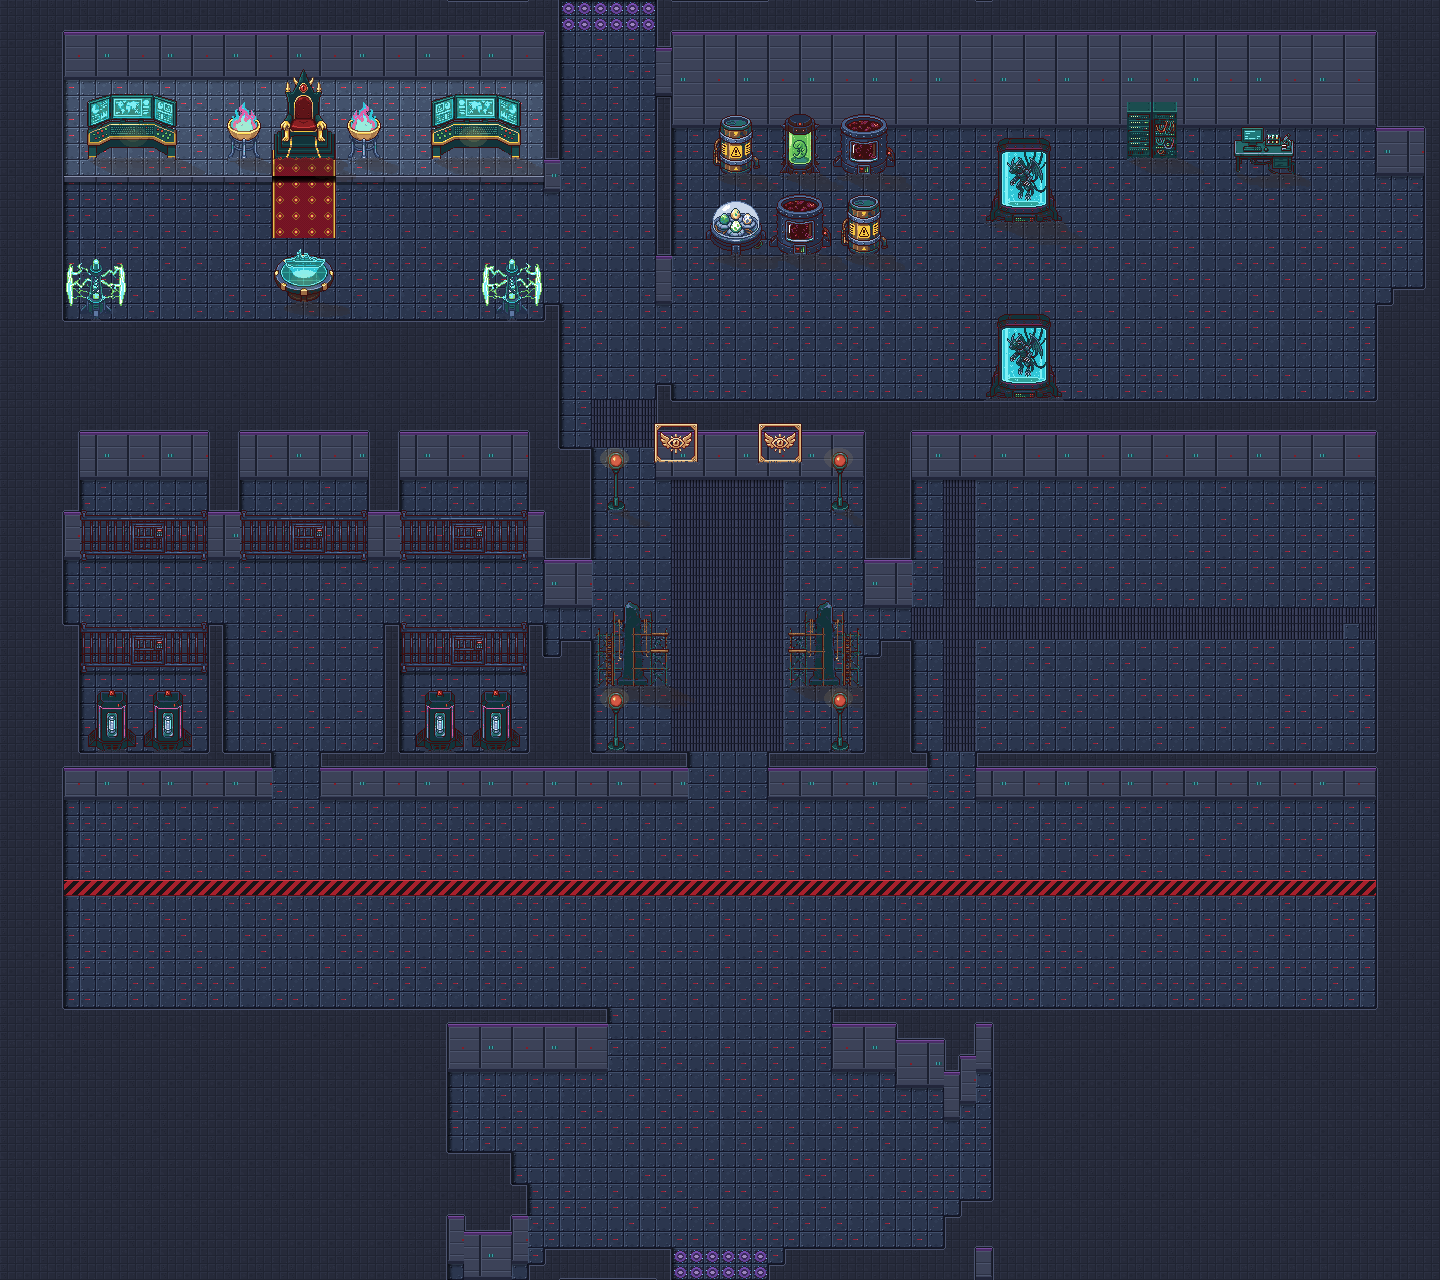
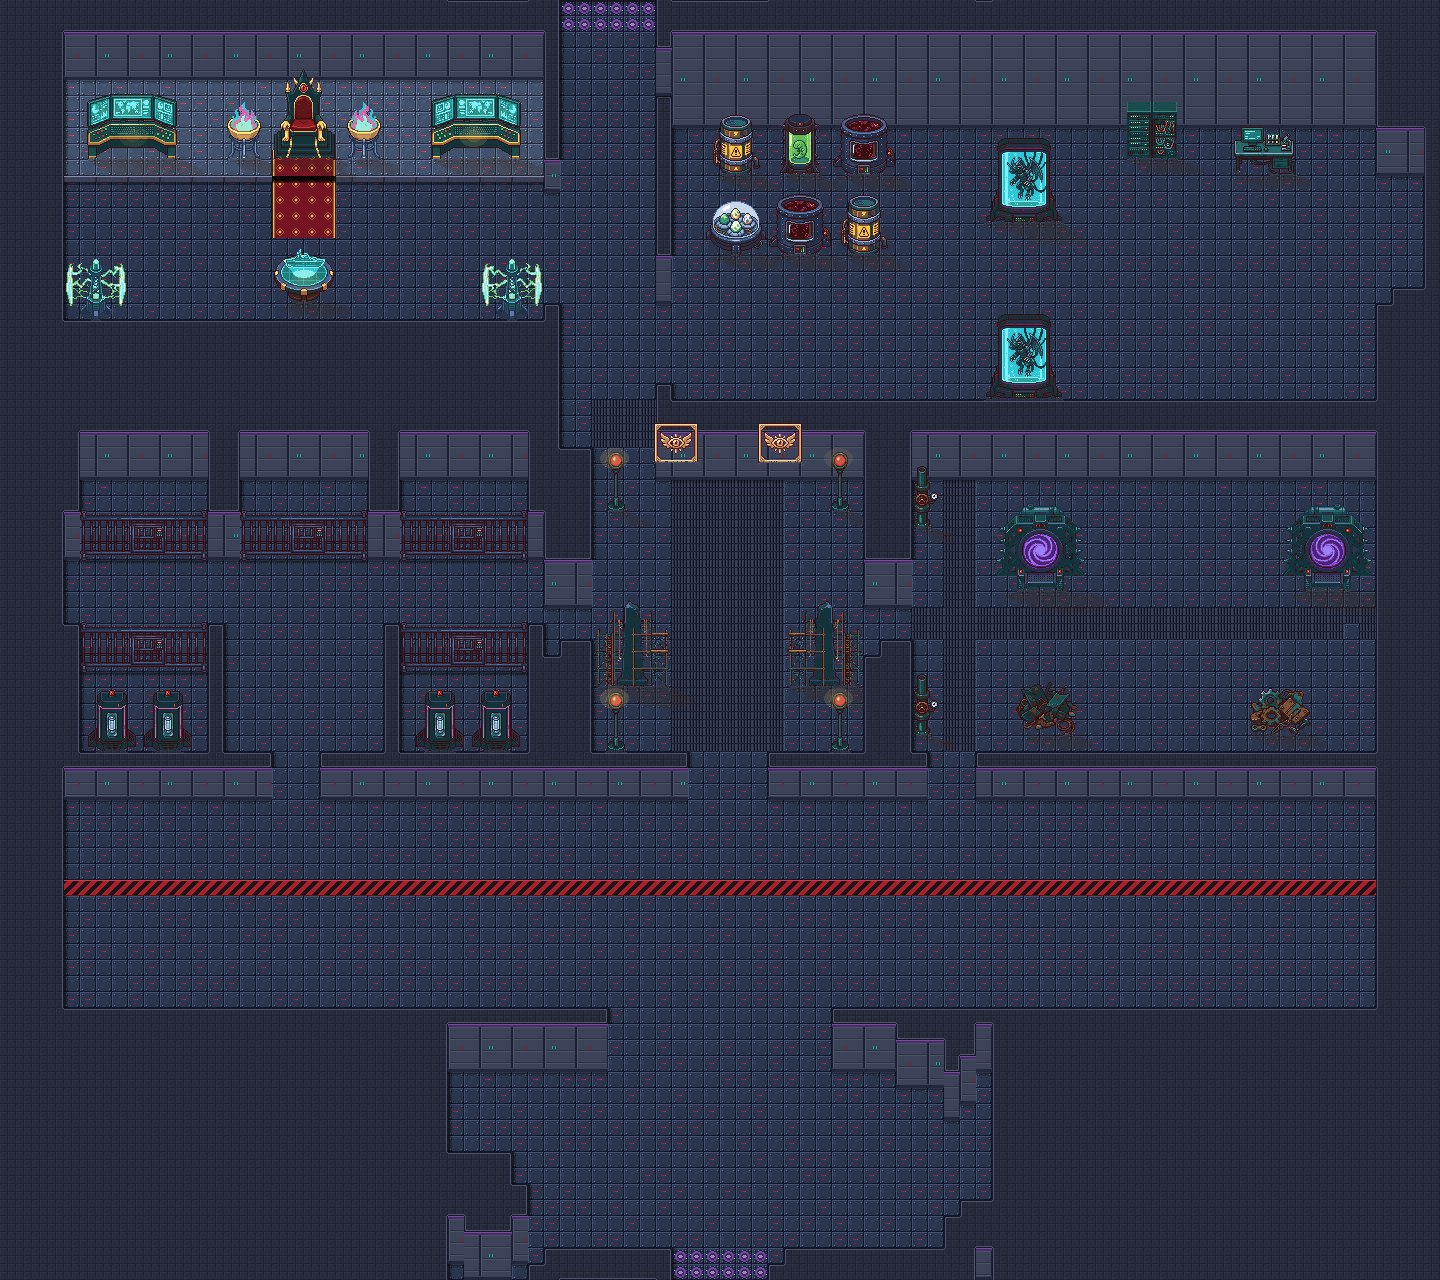
Karte 26: Portalraum - zwei Portalmaschinen mit lila Wirbel, Truemmerhaufen, Rohre (PixelLab k26_portal/k26_portalraum)
Claude-Session: https://claude.ai/code/session_01SaoYHKhnro4LFcPJqjaPsq

diff --git a/tools/pixellab_objekte.py b/tools/pixellab_objekte.py
@@ -1921,6 +1921,14 @@ OBJEKTGRUPPEN_K21 = {   # Karte 21 (Digi-Egg Valley), Stil wie Karte 20 / Karte 
         'a dark steel construction scaffolding with thin poles, cross braces, two small wooden plank platforms and a ladder, '
         'plain polished black stone without symbols, standing on a small square black base, ' + FR14,
     ]},
+    'k26_portal': {'size': 96, 'items': [
+        'large dark mechanical teleporter portal machine, heavy angular black steel frame with spikes, red warning lights and '
+        'vents, a round opening in the middle with a swirling glowing purple vortex, a coolant tank on the back, ' + FR14,
+    ]},
+    'k26_portalraum': {'size': 64, 'items': [
+        'heap of dark broken metal debris, twisted steel plates, cables and rubble on a metal floor, ' + FR14,
+        'tall thin vertical dark steel pipe with valves and a pressure gauge, mounted upright, ' + FR14,
+    ]},
     'k24_schrein': {'size': 64, 'items': [
         'dark emperor throne made of jagged black obsidian crystal spikes with deep purple and crimson highlights, a high '
         'pointed back, standing on a small stepped dark stone dais, ' + FR14,

diff --git a/tools/karte26_objekte.py b/tools/karte26_objekte.py
@@ -62,6 +62,12 @@ SAEULENRAUM = (
     + [('raum/01', 28, {'px': AXS - 52, 'wand': True}), ('raum/01', 28, {'px': AXS + 52, 'wand': True})]   # Wandschilder
 )
 
+PORTALRAUM = (                                                   # Portalraum Mitte rechts nach der Vorlage
+    [('portal/00_lila', 36, {'px': 1040, 'anim': 'portal'}), ('portal/00_lila', 36, {'px': 1327, 'anim': 'portal', 'spiegeln': True})]
+    + [('portalraum/00', 45, {'px': 1047}), ('portalraum/14', 45, {'px': 1280})]                       # Truemmerhaufen
+    + [('portalraum/01', 32, {'px': 926}), ('portalraum/01', 45, {'px': 926})]   # Rohre an den Waenden
+)
+
 
 def main():
     lay = json.load(open(os.path.join(KARTE, 'layout.json')))
@@ -72,7 +78,7 @@ def main():
         os.makedirs(os.path.dirname(ziel), exist_ok=True)
         shutil.copy(os.path.join(ROOT, 'assets', 'objekte', quelle), ziel)
     objekte, cache = [], {}
-    for (name, fy, opt) in THRONSAAL + LABOR + LABOR2 + SAEULENRAUM:
+    for (name, fy, opt) in THRONSAAL + LABOR + LABOR2 + SAEULENRAUM + PORTALRAUM:
         opt = dict(opt)
         spiegeln = opt.pop('spiegeln', False)
         key = (name, spiegeln)
